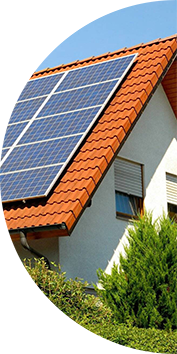
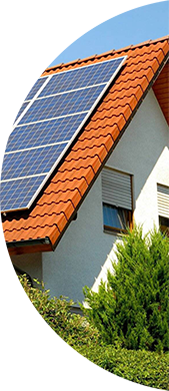
changed the picture on the mobile version in the station-types section

diff --git a/frontend/web/min/new-main.min.js b/frontend/web/min/new-main.min.js
@@ -1,4 +1,4 @@
-$(document).ready(function(){$('input[name="phone"]').mask("+38 (099) 999-99-99"),$(document).on("click",'[data-toggle="modal"]',function(){event.preventDefault(),showModal($(this).data("modal-id"))}),$(document).on("click",".subscribe-close, .overlay",function(){hideModal()}),$(document).on("click",".newsletter-opener",function(){event.preventDefault(),showModal($("#footer-newsletter"))}),$(document).on("click",".modal-close",function(){hideModal()}),$(document).on("click","#header .contact-opener",function(){event.preventDefault();var e=$(this).parents(".contact-block");e.hasClass("show-block")?e.removeClass("show-block"):(e.addClass("show-block"),$("body").removeClass("nav-active"))}),$(document).on("click","#nav-opener",function(){event.preventDefault();var e=$("body");e.hasClass("nav-active")?e.removeClass("nav-active"):(e.addClass("nav-active"),e.find(".contact-block").removeClass("show-block"))}),$(document).mouseup(function(e){var o=$("#header .contact-block"),t=$("#header");o.is(e.target)||0!==o.has(e.target).length||o.removeClass("show-block"),t.is(e.target)||0!==t.has(e.target).length||$("body").removeClass("nav-active")}),$("#to-top-link").click(function(){return event.preventDefault(),$("html, body").animate({scrollTop:0},500),!1}),$(document).on("click",".to_contact a",function(){event.preventDefault();var e=$(this).attr("href");$(window).width()<="1279"?($("html,body").scrollTop($(e).offset().top),$("body").removeClass("nav-active")):$("html,body").animate({scrollTop:$(e).offset().top-100},500)}),$(document).on("click",".anchor-list a",function(){event.preventDefault();var e=$(this).attr("href");$("html,body").animate({scrollTop:$(e).offset().top-100},500)}),$(document).on("click","#order-form",function(){event.preventDefault(),$(window).width()<="1279"?($("html,body").scrollTop($("#connect").offset().top),$("body").removeClass("nav-active")):$("html,body").animate({scrollTop:$("#connect").offset().top-60},500)}),$(document).on("click",".consult-btn , .order-btn",function(){event.preventDefault(),$(window).width()<="1279"?$("html,body").scrollTop($("#connect").offset().top):$("html,body").animate({scrollTop:$("#connect").offset().top-60},500)}),$(document).on("click",".adv-banner p",function(){event.preventDefault(),$(window).width()<="1279"?$("html,body").scrollTop($("#connect").offset().top):$("html,body").animate({scrollTop:$("#connect").offset().top-60},500),$(".adv-banner").hide()}),$(document).on("click",".adv-banner .close-banner",function(){event.preventDefault(),$(".adv-banner").hide(300)}),$(document).on("click",".open-close-opener",function(){$(".mobile-open-close").hasClass("show")?$(".mobile-open-close").removeClass("show"):$(".mobile-open-close").addClass("show")}),$(document).on("click",".seo-article-opener",function(){$(".seo-article").toggleClass("collapsed")}),$(document).on("click",".seo-article-opened",function(){$(".new-seo-article").toggleClass("new-collapsed")}),$(document).on("click",".staff-slider .slide",function(){var e=$(this).attr("data-slick-index");$(".staff-slider").slick("slickGoTo",e)}),initTabs($(".video-page .tab-navigation"),$(".video-page .tab-container")),initLoadMore($(".load-all"),3,3),initLoadMore($(".load-finished"),3,3),initLoadMore($(".load-approach"),3,3),initLoadMore($(".load-technology"),3,3),headerBg(),loadPros()});var lastWidth=$(window).width();$(window).resize(function(){$(window).width()!=lastWidth&&(initLoadMore($(".load-all"),3,3),initLoadMore($(".load-finished"),3,3),initLoadMore($(".load-approach"),3,3),initLoadMore($(".load-technology"),3,3),lastWidth=$(window).width(),loadPros())});var scrollPrev=0;function initTabs(o,t){$(o).find("a").on("click",function(){event.preventDefault();var e=$(this).attr("href");$(o).find("a").each(function(){$(this).removeClass("active")}),$(t).find(".tab-box").each(function(){$(this).removeClass("active"),$(this).hide()}),$(this).addClass("active"),$(e).show().addClass("active")})}function initLoadMore(e,o,t){var s=o-1,i=o,n=e.find(".button"),l=n.parents(".load-more-wrap").find(".video-row");$(window).width()<1024?(l.find(".video-col").length<=o?e.hide():e.show(),l.find(".video-col:gt("+s+")").hide(),n.on("click",function(){return i+=t,l.find(".video-col").slice(0,i).show(),0===l.find(".video-col:hidden").length&&(e.slideUp(400),i=o),!1})):(l.find(".video-col").show(),e.hide())}function headerBg(){height=$(window).scrollTop(),40<height?$(".header").addClass("scrolled"):$(".header").removeClass("scrolled")}function loadPros(){$(".pros-list").length&&window.matchMedia("(max-width: 767px)").matches?($(".pros-list li:gt(2)").hide(),$(".load-pros-button").show(300),$(document).on("click",".load-pros-button",function(){return $(".pros-list li").show(300),$(this).hide(),!1})):($(".load-pros-button").hide(),$(".pros-list li").show(300))}function showModal(e){$(e).fadeIn(300),$("body").addClass("no-overflow")}function hideModal(e){$(".modal").fadeOut(300),$("body").removeClass("no-overflow")}function validateEmail(e){e=$.trim(e);return/^(([^<>()\[\]\\.,;:\s@"]+(\.[^<>()\[\]\\.,;:\s@"]+)*)|(".+"))@((\[[0-9]{1,3}\.[0-9]{1,3}\.[0-9]{1,3}\.[0-9]{1,3}\])|(([a-zA-Z\-0-9]+\.)+[a-zA-Z]{2,}))$/.test(String(e).toLowerCase())}function initMap(){var e={lat:50.4495953,lng:30.4200102},o=e,t=$(window).width();(t<=1024||768<=t)&&(o={lat:50.449657,lng:30.410977}),$(window).width()<768&&(o={lat:50.449736,lng:30.419983});t={url:"../img/icon/marker.png",size:new google.maps.Size(48,48),origin:new google.maps.Point(0,0),anchor:new google.maps.Point(0,48)},o=new google.maps.Map(document.getElementById("map"),{center:o,zoom:15,disableDefaultUI:!0,scrollwheel:!1,zoomControl:!1});new google.maps.Marker({position:e,map:o,icon:t}).setMap(o)}$(window).scroll(function(){var e=$(window).scrollTop();200<e&&e<scrollPrev?$("#to_top_block").addClass("visible"):$("#to_top_block").removeClass("visible"),scrollPrev=e,headerBg()}),$(".comment-button").click(function(e){e.preventDefault();var o=$('.comment-content-question input[name="article_title"]'),t=$('.comment-content-question input[name="article_id"]'),s=$('.comment-content-question input[name="comment_date"]'),i=$('.comment-content-question input[name="response_date"]'),n=$('.comment-content-question input[name="published"]'),l=$('.comment-content-question input[name="name"]'),r=$('.comment-content-question textarea[name="comment"]'),e=$('.comment-content-question input[name="reCaptcha"]');""!=l.val()?l.css("border-color","#222"):l.css("border-color","red"),""!=r.val()?r.css("border-color","#222"):r.css("border-color","red"),""!=l.val()&&""!=r.val()&&$.ajax({type:"post",url:"/site/comment",data:{article_title:o.val(),article_id:t.val(),comment_date:s.val(),response_date:i.val(),published:n.val(),name:l.val(),comment:r.val(),captcha:e.val()},dataType:"json",complete:function(e){$(".comment-button").text("Надіслано").css({cursor:"default"}),($(window).innerHeight()<768?$(".comment-content-question .form-compelete").css("display","block;"):$(".comment-content-question .form-compelete").css("display","inline-flex;")).hide().fadeIn()}})}),$(".connect-btn").click(function(e){e.preventDefault();var o=$('.connect__content-question input[name="fullname"]'),t=$('.connect__content-question textarea[name="question"]'),s=$('.connect__content-question input[name="phone"]'),i=$('.connect__content-question input[name="email"]'),n=$('.connect__content-question input[name="utm_source"]'),l=$('.connect__content-question input[name="utm_medium"]'),r=$('.connect__content-question input[name="utm_campaign"]'),a=$('.connect__content-question input[name="utm_content"]'),c=$('.connect__content-question input[name="utm_term"]'),e=""!=o.val()&&""!=i.val()&&""!=s.val()&&validateEmail(i.val())?"autoEvent":"falseRequest";dataLayer.push({eventCategory:"form",eventAction:"sent",eventLabel:t.val(),event:e}),""!=o.val()?o.removeClass("input-error"):o.addClass("input-error"),""!=s.val()?s.removeClass("input-error"):s.addClass("input-error"),validateEmail(i.val())?i.removeClass("input-error"):i.addClass("input-error"),""!=o.val()&&""!=s.val()&&validateEmail(i.val())&&$.ajax({type:"post",url:"/site/request",data:{name:o.val(),type:t.val(),phone:s.val(),email:i.val(),utm_source:n.val(),utm_medium:l.val(),utm_campaign:r.val(),utm_content:a.val(),utm_term:c.val()},dataType:"json",beforeSend:function(e){$(".connect-btn").attr("disabled","disabled").removeClass("btn-primary").addClass("btn-primary-disable").css({cursor:"wait"})},complete:function(e){$(".connect-btn").parents(".message").slideUp(),$(".connect-btn").css({cursor:"default"}),$(".connect__content-question .form-compelete").fadeIn(300)}})}),$(".btn-subscribe").click(function(e){e.preventDefault();var o=$('.subscribe input[name="email"]');validateEmail(o.val())?o.removeClass("input-error"):o.addClass("input-error"),validateEmail(o.val())&&(dataLayer.push({eventCategory:"form",eventAction:"sent",eventLabel:"subscribe",event:"autoEvent"}),$.ajax({type:"post",url:"/site/subscribe",data:{email:o.val(),esputnik:"Pidtverdzhennya_pidpysku"},dataType:"json",beforeSend:function(e){o.attr("disabled","disabled"),$(".btn-subscribe").attr("disabled","disabled").css({cursor:"wait"})},complete:function(e){$(".btn-subscribe").css({cursor:"default"}),$(".newsletter-wrap .success-msg").slideDown(300)}}))}),$(document).ready(function(){var i;$(".hero-project-slider").length&&(i=$(".hero-slider-counter"),$(".hero-project-slider").on("init reInit afterChange",function(e,o,t,s){t=(t||0)+1;i.text(t+"/"+o.slideCount)}),$(".hero-project-slider").slick({slidesToScroll:1,rows:0,slidesToShow:1,arrows:!1,dots:!0,adaptiveHeight:!0,responsive:[{breakpoint:767,settings:{dots:!1}}]})),$(".video-review-slider").length&&$(".video-review-slider").slick({slidesToScroll:1,rows:0,slidesToShow:3,arrows:!1,dots:!0,infinite:!1,responsive:[{breakpoint:1023,settings:{slidesToShow:2}},{breakpoint:479,settings:{slidesToShow:1}}]}),$(".staff-slider").length&&$(".staff-slider").slick({slidesToScroll:1,rows:0,slidesToShow:5,arrows:!1,dots:!0,infinite:!0,centerMode:!0,centerPadding:"10px",autoPlay:!0,autoplaySpeed:4e3,responsive:[{breakpoint:1023,settings:{slidesToShow:3,autoPlay:!1}},{breakpoint:479,settings:{slidesToShow:1,variableWidth:!0}}]}),$(".price-slider").length&&$(".price-slider").slick({slidesToScroll:1,rows:0,slidesToShow:3,arrows:!1,dots:!1,infinite:!1,responsive:[{breakpoint:767,settings:{slidesToScroll:1,slidesToShow:1,dots:!0,dotsClass:"slick-dots"}}]}),$(".work-stages-slider").length&&$(".work-stages-slider").slick({slidesToScroll:1,rows:0,slidesToShow:3,arrows:!1,dots:!1,infinite:!1,responsive:[{breakpoint:1023,settings:{slidesToScroll:1,slidesToShow:2,dots:!0,dotsClass:"slick-dots"}},{breakpoint:767,settings:{slidesToScroll:1,slidesToShow:1,adaptiveHeight:!0,dots:!0,dotsClass:"slick-dots"}}]}),$(".equipment-nav").length&&$(".equipment-nav").slick({slidesToScroll:1,slidesToShow:3,rows:0,arrows:!1,dots:!1,infinite:!1,variableWidth:!0,asNavFor:".equipment-slider",focusOnSelect:!0,responsive:[{breakpoint:767,settings:{slidesToShow:1,centerMode:!0,centerPadding:"0"}}]}),$(".possibility-list-slider").length&&$(".possibility-list-slider").slick({slidesToScroll:1,rows:0,slidesToShow:4,arrows:!1,dots:!1,infinite:!1,responsive:[{breakpoint:1190,settings:{slidesToScroll:1,slidesToShow:3,adaptiveHeight:!0,dots:!0,dotsClass:"slick-dots"}},{breakpoint:1023,settings:{slidesToScroll:1,slidesToShow:2,dots:!0,dotsClass:"slick-dots"}},{breakpoint:760,settings:{slidesToScroll:1,slidesToShow:1,adaptiveHeight:!0,dots:!0,dotsClass:"slick-dots"}}]}),$(".pros-list-slider").length&&$(".pros-list-slider").slick({slidesToScroll:1,rows:0,slidesToShow:3,arrows:!1,dots:!1,infinite:!1,responsive:[{breakpoint:1191,settings:"unslick"},{breakpoint:1190,settings:{slidesToScroll:1,slidesToShow:3,dots:!0,dotsClass:"slick-dots"}},{breakpoint:1023,settings:{slidesToScroll:1,slidesToShow:2,dots:!0,dotsClass:"slick-dots"}},{breakpoint:760,settings:{slidesToScroll:1,slidesToShow:1,adaptiveHeight:!0,dots:!0,dotsClass:"slick-dots"}}]}),$(".equipment-slider").length&&$(".equipment-slider").slick({slidesToScroll:1,slidesToShow:1,rows:0,arrows:!1,dots:!1,infinite:!1,swipe:!1,touchMove:!1,fade:!0,adaptiveHeight:!0,asNavFor:".equipment-nav"}),$(".equipment-slick").length&&$(".equipment-slick").slick({slidesToScroll:1,slidesToShow:1,rows:0,nextArrow:'<div class="next-arrow"><img src="/img/icon/Arrow.svg" alt="next" /></div>',prevArrow:'<div class="prev-arrow"><img src="/img/icon/Arrow.svg" alt="prev" /></div>',dots:!1,responsive:[{breakpoint:767,settings:{arrows:!1,dots:!0,dotsClass:"slick-dots"}}]}),$(".pannel-slick").length&&$(".pannel-slick").slick({slidesToScroll:1,slidesToShow:1,rows:0,nextArrow:'<div class="next-arrow"><img src="/img/icon/Arrow.svg" alt="next" /></div>',prevArrow:'<div class="prev-arrow"><img src="/img/icon/Arrow.svg" alt="prev" /></div>',dots:!1,responsive:[{breakpoint:767,settings:{arrows:!1,dots:!0,dotsClass:"slick-dots"}}]}),$(".mount-slick").length&&$(".mount-slick").slick({slidesToScroll:1,slidesToShow:1,rows:0,nextArrow:'<div class="next-arrow"><img src="/img/icon/Arrow.svg" alt="next" /></div>',prevArrow:'<div class="prev-arrow"><img src="/img/icon/Arrow.svg" alt="prev" /></div>',dots:!1,responsive:[{breakpoint:767,settings:{arrows:!1}}]}),$(".battery-slick").length&&$(".battery-slick").slick({slidesToScroll:1,slidesToShow:1,rows:0,nextArrow:'<div class="next-arrow"><img src="/img/icon/Arrow.svg" alt="next" /></div>',prevArrow:'<div class="prev-arrow"><img src="/img/icon/Arrow.svg" alt="prev" /></div>',dots:!1,responsive:[{breakpoint:767,settings:{arrows:!1}}]}),$(".service-types-nav").length&&$(".service-types-nav").slick({slidesToScroll:1,slidesToShow:3,rows:0,arrows:!1,dots:!1,infinite:!1,variableWidth:!0,asNavFor:".service-types-slider",focusOnSelect:!0,responsive:[{breakpoint:767,settings:{slidesToShow:1,centerMode:!0,centerPadding:"0"}}]}),$(".service-types-slider").length&&$(".service-types-slider").slick({slidesToScroll:1,slidesToShow:1,rows:0,arrows:!1,dots:!1,swipe:!1,touchMove:!1,fade:!0,focusOnSelect:!0,asNavFor:".service-types-nav",responsive:[{breakpoint:767,settings:{arrows:!1,adaptiveHeight:!0,swipe:!0,touchMove:!0,dots:!0,dotsClass:"slick-dots"}}]}),$(".reason-slider").length&&$(".reason-slider").slick({slidesToScroll:1,rows:0,slidesToShow:1,arrows:!1,dots:!0,infinite:!1,mobileFirst:!0,responsive:[{breakpoint:767,settings:"unslick"}]}),$(".clients-slider").length&&$(".clients-slider").slick({slidesToScroll:1,rows:0,slidesToShow:1,dots:!1,nextArrow:'<div class="next-arrow"><img src="/img/icon/Arrow.svg" alt="next" /></div>',prevArrow:'<div class="prev-arrow"><img src="/img/icon/Arrow.svg" alt="prev" /></div>',responsive:[{breakpoint:767,settings:{arrows:!1,dots:!0,dotsClass:"slick-dots"}}]}),$(".example__content-list").length&&$(".example__content-list").slick({infinite:!1,slidesToShow:3,slidesToScroll:3,rows:0,arrows:!0,touchMove:!1,accesibility:!1,draggable:!1,swipe:!1,speed:1e3,nextArrow:'<div class="next-arrow"><img src="/img/icon/Arrow.svg" alt="" /></div>',prevArrow:'<div class="prev-arrow"><img src="/img/icon/Arrow.svg" alt="" /></div>',responsive:[{breakpoint:1536,settings:{slidesToShow:2,slidesToScroll:2}},{breakpoint:1366,settings:{slidesToShow:2,slidesToScroll:2}},{breakpoint:769,settings:{slidesToShow:1,slidesToScroll:1,touchMove:!0,accesibility:!0,draggable:!0,swipe:!0}}]}),$(".project-info__slider-nav").length&&$(".project-info__slider-nav").slick({infinite:!1,slidesToShow:5,slidesToScroll:1,focusOnSelect:!0,arrows:!1,vertical:!0,dots:!1,asNavFor:".project-info__slider",responsive:[{breakpoint:420,settings:{slidesToShow:3}}]}),$(".project-info__slider").length&&$(".project-info__slider").slick({infinite:!1,slidesToShow:1,slidesToScroll:1,arrows:!0,fade:!0,nextArrow:'<div class="next-arrow"><img src="/img/icon/Arrow.svg" alt="" /></div>',prevArrow:'<div class="prev-arrow"><img src="/img/icon/Arrow.svg" alt="" /></div>',asNavFor:".project-info__slider-nav"})}),$(document).ready(function(){$(".solar-station-slider").slick({prevArrow:'<button type="button" class="solar-station-slick-btn solar-station-slick-prev"><img src="/img/dohod-zelyonyi-tarif/solar-arrow-prev.svg" alt=""></button>',nextArrow:'<button type="button" class="solar-station-slick-btn solar-station-slick-next"><img src="/img/dohod-zelyonyi-tarif/solar-arrow-next.svg" alt=""></button>',fade:!0})});for(var acc=document.getElementsByClassName("accordion"),i=0;i<acc.length;i++)acc[i].addEventListener("click",function(){this.classList.toggle("active1");var e=this.nextElementSibling;e.style.maxHeight?e.style.maxHeight=null:e.style.maxHeight=e.scrollHeight+"px"});
+$(document).ready(function(){$('input[name="phone"]').mask("+38 (099) 999-99-99"),$(document).on("click",'[data-toggle="modal"]',function(){event.preventDefault(),showModal($(this).data("modal-id"))}),$(document).on("click",".subscribe-close, .overlay",function(){hideModal()}),$(document).on("click",".newsletter-opener",function(){event.preventDefault(),showModal($("#footer-newsletter"))}),$(document).on("click",".modal-close",function(){hideModal()}),$(document).on("click","#header .contact-opener",function(){event.preventDefault();var e=$(this).parents(".contact-block");e.hasClass("show-block")?e.removeClass("show-block"):(e.addClass("show-block"),$("body").removeClass("nav-active"))}),$(document).on("click","#nav-opener",function(){event.preventDefault();var e=$("body");e.hasClass("nav-active")?e.removeClass("nav-active"):(e.addClass("nav-active"),e.find(".contact-block").removeClass("show-block"))}),$(document).mouseup(function(e){var o=$("#header .contact-block"),t=$("#header");o.is(e.target)||0!==o.has(e.target).length||o.removeClass("show-block"),t.is(e.target)||0!==t.has(e.target).length||$("body").removeClass("nav-active")}),$("#to-top-link").click(function(){return event.preventDefault(),$("html, body").animate({scrollTop:0},500),!1}),$(document).on("click",".to_contact a",function(){event.preventDefault();var e=$(this).attr("href");$(window).width()<="1279"?($("html,body").scrollTop($(e).offset().top),$("body").removeClass("nav-active")):$("html,body").animate({scrollTop:$(e).offset().top-100},500)}),$(document).on("click",".anchor-list a",function(){event.preventDefault();var e=$(this).attr("href");$("html,body").animate({scrollTop:$(e).offset().top-100},500)}),$(document).on("click","#order-form",function(){event.preventDefault(),$(window).width()<="1279"?($("html,body").scrollTop($("#connect").offset().top),$("body").removeClass("nav-active")):$("html,body").animate({scrollTop:$("#connect").offset().top-60},500)}),$(document).on("click",".consult-btn , .order-btn",function(){event.preventDefault(),$(window).width()<="1279"?$("html,body").scrollTop($("#connect").offset().top):$("html,body").animate({scrollTop:$("#connect").offset().top-60},500)}),$(document).on("click",".adv-banner p",function(){event.preventDefault(),$(window).width()<="1279"?$("html,body").scrollTop($("#connect").offset().top):$("html,body").animate({scrollTop:$("#connect").offset().top-60},500),$(".adv-banner").hide()}),$(document).on("click",".adv-banner .close-banner",function(){event.preventDefault(),$(".adv-banner").hide(300)}),$(document).on("click",".open-close-opener",function(){$(".mobile-open-close").hasClass("show")?$(".mobile-open-close").removeClass("show"):$(".mobile-open-close").addClass("show")}),$(document).on("click",".seo-article-opener",function(){$(".seo-article").toggleClass("collapsed")}),$(document).on("click",".seo-article-opened",function(){$(".new-seo-article").toggleClass("new-collapsed")}),$(document).on("click",".staff-slider .slide",function(){var e=$(this).attr("data-slick-index");$(".staff-slider").slick("slickGoTo",e)}),initTabs($(".video-page .tab-navigation"),$(".video-page .tab-container")),initLoadMore($(".load-all"),3,3),initLoadMore($(".load-finished"),3,3),initLoadMore($(".load-approach"),3,3),initLoadMore($(".load-technology"),3,3),headerBg(),loadPros()});var lastWidth=$(window).width();$(window).resize(function(){$(window).width()!=lastWidth&&(initLoadMore($(".load-all"),3,3),initLoadMore($(".load-finished"),3,3),initLoadMore($(".load-approach"),3,3),initLoadMore($(".load-technology"),3,3),lastWidth=$(window).width(),loadPros())});var scrollPrev=0;function initTabs(o,t){$(o).find("a").on("click",function(){event.preventDefault();var e=$(this).attr("href");$(o).find("a").each(function(){$(this).removeClass("active")}),$(t).find(".tab-box").each(function(){$(this).removeClass("active"),$(this).hide()}),$(this).addClass("active"),$(e).show().addClass("active")})}function initLoadMore(e,o,t){var s=o-1,i=o,n=e.find(".button"),l=n.parents(".load-more-wrap").find(".video-row");$(window).width()<1024?(l.find(".video-col").length<=o?e.hide():e.show(),l.find(".video-col:gt("+s+")").hide(),n.on("click",function(){return i+=t,l.find(".video-col").slice(0,i).show(),0===l.find(".video-col:hidden").length&&(e.slideUp(400),i=o),!1})):(l.find(".video-col").show(),e.hide())}function headerBg(){height=$(window).scrollTop(),40<height?$(".header").addClass("scrolled"):$(".header").removeClass("scrolled")}function loadPros(){$(".pros-list").length&&window.matchMedia("(max-width: 767px)").matches?($(".pros-list li:gt(2)").hide(),$(".load-pros-button").show(300),$(document).on("click",".load-pros-button",function(){return $(".pros-list li").show(300),$(this).hide(),!1})):($(".load-pros-button").hide(),$(".pros-list li").show(300))}function showModal(e){$(e).fadeIn(300),$("body").addClass("no-overflow")}function hideModal(e){$(".modal").fadeOut(300),$("body").removeClass("no-overflow")}function validateEmail(e){e=$.trim(e);return/^(([^<>()\[\]\\.,;:\s@"]+(\.[^<>()\[\]\\.,;:\s@"]+)*)|(".+"))@((\[[0-9]{1,3}\.[0-9]{1,3}\.[0-9]{1,3}\.[0-9]{1,3}\])|(([a-zA-Z\-0-9]+\.)+[a-zA-Z]{2,}))$/.test(String(e).toLowerCase())}function initMap(){var e={lat:50.4495953,lng:30.4200102},o=e,t=$(window).width();(t<=1024||768<=t)&&(o={lat:50.449657,lng:30.410977}),$(window).width()<768&&(o={lat:50.449736,lng:30.419983});t={url:"../img/icon/marker.png",size:new google.maps.Size(48,48),origin:new google.maps.Point(0,0),anchor:new google.maps.Point(0,48)},o=new google.maps.Map(document.getElementById("map"),{center:o,zoom:15,disableDefaultUI:!0,scrollwheel:!1,zoomControl:!1});new google.maps.Marker({position:e,map:o,icon:t}).setMap(o)}$(window).scroll(function(){var e=$(window).scrollTop();200<e&&e<scrollPrev?$("#to_top_block").addClass("visible"):$("#to_top_block").removeClass("visible"),scrollPrev=e,headerBg()}),$(".comment-button").click(function(e){e.preventDefault();var o=$('.comment-content-question input[name="article_title"]'),t=$('.comment-content-question input[name="article_id"]'),s=$('.comment-content-question input[name="comment_date"]'),i=$('.comment-content-question input[name="response_date"]'),n=$('.comment-content-question input[name="published"]'),l=$('.comment-content-question input[name="name"]'),r=$('.comment-content-question textarea[name="comment"]'),e=$('.comment-content-question input[name="reCaptcha"]');""!=l.val()?l.css("border-color","#222"):l.css("border-color","red"),""!=r.val()?r.css("border-color","#222"):r.css("border-color","red"),""!=l.val()&&""!=r.val()&&$.ajax({type:"post",url:"/site/comment",data:{article_title:o.val(),article_id:t.val(),comment_date:s.val(),response_date:i.val(),published:n.val(),name:l.val(),comment:r.val(),captcha:e.val()},dataType:"json",complete:function(e){$(".comment-button").text("Надіслано").css({cursor:"default"}),($(window).innerHeight()<768?$(".comment-content-question .form-compelete").css("display","block;"):$(".comment-content-question .form-compelete").css("display","inline-flex;")).hide().fadeIn()}})}),$(".connect-btn").click(function(e){e.preventDefault();var o=$('.connect__content-question input[name="fullname"]'),t=$('.connect__content-question textarea[name="question"]'),s=$('.connect__content-question input[name="phone"]'),i=$('.connect__content-question input[name="email"]'),n=$('.connect__content-question input[name="utm_source"]'),l=$('.connect__content-question input[name="utm_medium"]'),r=$('.connect__content-question input[name="utm_campaign"]'),a=$('.connect__content-question input[name="utm_content"]'),c=$('.connect__content-question input[name="utm_term"]'),e=""!=o.val()&&""!=i.val()&&""!=s.val()&&validateEmail(i.val())?"autoEvent":"falseRequest";dataLayer.push({eventCategory:"form",eventAction:"sent",eventLabel:t.val(),event:e}),""!=o.val()?o.removeClass("input-error"):o.addClass("input-error"),""!=s.val()?s.removeClass("input-error"):s.addClass("input-error"),validateEmail(i.val())?i.removeClass("input-error"):i.addClass("input-error"),""!=o.val()&&""!=s.val()&&validateEmail(i.val())&&$.ajax({type:"post",url:"/site/request",data:{name:o.val(),type:t.val(),phone:s.val(),email:i.val(),utm_source:n.val(),utm_medium:l.val(),utm_campaign:r.val(),utm_content:a.val(),utm_term:c.val()},dataType:"json",beforeSend:function(e){$(".connect-btn").attr("disabled","disabled").removeClass("btn-primary").addClass("btn-primary-disable").css({cursor:"wait"})},complete:function(e){$(".connect-btn").parents(".message").slideUp(),$(".connect-btn").css({cursor:"default"}),$(".connect__content-question .form-compelete").fadeIn(300)}})}),$(".btn-subscribe").click(function(e){e.preventDefault();var o=$('.subscribe input[name="email"]');validateEmail(o.val())?o.removeClass("input-error"):o.addClass("input-error"),validateEmail(o.val())&&(dataLayer.push({eventCategory:"form",eventAction:"sent",eventLabel:"subscribe",event:"autoEvent"}),$.ajax({type:"post",url:"/site/subscribe",data:{email:o.val(),esputnik:"Pidtverdzhennya_pidpysku"},dataType:"json",beforeSend:function(e){o.attr("disabled","disabled"),$(".btn-subscribe").attr("disabled","disabled").css({cursor:"wait"})},complete:function(e){$(".btn-subscribe").css({cursor:"default"}),$(".newsletter-wrap .success-msg").slideDown(300)}}))}),$(document).ready(function(){var i;$(".hero-project-slider").length&&(i=$(".hero-slider-counter"),$(".hero-project-slider").on("init reInit afterChange",function(e,o,t,s){t=(t||0)+1;i.text(t+"/"+o.slideCount)}),$(".hero-project-slider").slick({slidesToScroll:1,rows:0,slidesToShow:1,arrows:!1,dots:!0,adaptiveHeight:!0,responsive:[{breakpoint:767,settings:{dots:!1}}]})),$(".video-review-slider").length&&$(".video-review-slider").slick({slidesToScroll:1,rows:0,slidesToShow:3,arrows:!1,dots:!0,infinite:!1,responsive:[{breakpoint:1023,settings:{slidesToShow:2}},{breakpoint:479,settings:{slidesToShow:1}}]}),$(".staff-slider").length&&$(".staff-slider").slick({slidesToScroll:1,rows:0,slidesToShow:5,arrows:!1,dots:!0,infinite:!0,centerMode:!0,centerPadding:"10px",autoPlay:!0,autoplaySpeed:4e3,responsive:[{breakpoint:1023,settings:{slidesToShow:3,autoPlay:!1}},{breakpoint:479,settings:{slidesToShow:1,variableWidth:!0}}]}),$(".price-slider").length&&$(".price-slider").slick({slidesToScroll:1,rows:0,slidesToShow:3,arrows:!1,dots:!1,infinite:!1,responsive:[{breakpoint:767,settings:{slidesToScroll:1,slidesToShow:1,dots:!0,dotsClass:"slick-dots"}}]}),$(".work-stages-slider").length&&$(".work-stages-slider").slick({slidesToScroll:1,rows:0,slidesToShow:3,arrows:!1,dots:!1,infinite:!1,responsive:[{breakpoint:1023,settings:{slidesToScroll:1,slidesToShow:2,dots:!0,dotsClass:"slick-dots"}},{breakpoint:767,settings:{slidesToScroll:1,slidesToShow:1,adaptiveHeight:!0,dots:!0,dotsClass:"slick-dots"}}]}),$(".equipment-nav").length&&$(".equipment-nav").slick({slidesToScroll:1,slidesToShow:3,rows:0,arrows:!1,dots:!1,infinite:!1,variableWidth:!0,asNavFor:".equipment-slider",focusOnSelect:!0,responsive:[{breakpoint:767,settings:{slidesToShow:1,centerMode:!0,centerPadding:"0"}}]}),$(".possibility-list-slider").length&&$(".possibility-list-slider").slick({slidesToScroll:1,rows:0,slidesToShow:4,arrows:!1,dots:!1,infinite:!1,responsive:[{breakpoint:1190,settings:{slidesToScroll:1,slidesToShow:3,dots:!0,dotsClass:"slick-dots"}},{breakpoint:1023,settings:{slidesToScroll:1,slidesToShow:2,dots:!0,dotsClass:"slick-dots"}},{breakpoint:760,settings:{slidesToScroll:1,slidesToShow:1,dots:!0,dotsClass:"slick-dots"}}]}),$(".pros-list-slider").length&&$(".pros-list-slider").slick({slidesToScroll:1,rows:0,slidesToShow:3,arrows:!1,dots:!1,infinite:!1,responsive:[{breakpoint:1191,settings:"unslick"},{breakpoint:1190,settings:{slidesToScroll:1,slidesToShow:3,dots:!0,dotsClass:"slick-dots"}},{breakpoint:1023,settings:{slidesToScroll:1,slidesToShow:2,dots:!0,dotsClass:"slick-dots"}},{breakpoint:760,settings:{slidesToScroll:1,slidesToShow:1,dots:!0,dotsClass:"slick-dots"}}]}),$(".equipment-slider").length&&$(".equipment-slider").slick({slidesToScroll:1,slidesToShow:1,rows:0,arrows:!1,dots:!1,infinite:!1,swipe:!1,touchMove:!1,fade:!0,adaptiveHeight:!0,asNavFor:".equipment-nav"}),$(".equipment-slick").length&&$(".equipment-slick").slick({slidesToScroll:1,slidesToShow:1,rows:0,nextArrow:'<div class="next-arrow"><img src="/img/icon/Arrow.svg" alt="next" /></div>',prevArrow:'<div class="prev-arrow"><img src="/img/icon/Arrow.svg" alt="prev" /></div>',dots:!1,responsive:[{breakpoint:767,settings:{arrows:!1,dots:!0,dotsClass:"slick-dots"}}]}),$(".pannel-slick").length&&$(".pannel-slick").slick({slidesToScroll:1,slidesToShow:1,rows:0,nextArrow:'<div class="next-arrow"><img src="/img/icon/Arrow.svg" alt="next" /></div>',prevArrow:'<div class="prev-arrow"><img src="/img/icon/Arrow.svg" alt="prev" /></div>',dots:!1,responsive:[{breakpoint:767,settings:{arrows:!1,dots:!0,dotsClass:"slick-dots"}}]}),$(".mount-slick").length&&$(".mount-slick").slick({slidesToScroll:1,slidesToShow:1,rows:0,nextArrow:'<div class="next-arrow"><img src="/img/icon/Arrow.svg" alt="next" /></div>',prevArrow:'<div class="prev-arrow"><img src="/img/icon/Arrow.svg" alt="prev" /></div>',dots:!1,responsive:[{breakpoint:767,settings:{arrows:!1}}]}),$(".battery-slick").length&&$(".battery-slick").slick({slidesToScroll:1,slidesToShow:1,rows:0,nextArrow:'<div class="next-arrow"><img src="/img/icon/Arrow.svg" alt="next" /></div>',prevArrow:'<div class="prev-arrow"><img src="/img/icon/Arrow.svg" alt="prev" /></div>',dots:!1,responsive:[{breakpoint:767,settings:{arrows:!1}}]}),$(".service-types-nav").length&&$(".service-types-nav").slick({slidesToScroll:1,slidesToShow:3,rows:0,arrows:!1,dots:!1,infinite:!1,variableWidth:!0,asNavFor:".service-types-slider",focusOnSelect:!0,responsive:[{breakpoint:767,settings:{slidesToShow:1,centerMode:!0,centerPadding:"0"}}]}),$(".service-types-slider").length&&$(".service-types-slider").slick({slidesToScroll:1,slidesToShow:1,rows:0,arrows:!1,dots:!1,swipe:!1,touchMove:!1,fade:!0,focusOnSelect:!0,asNavFor:".service-types-nav",responsive:[{breakpoint:767,settings:{arrows:!1,adaptiveHeight:!0,swipe:!0,touchMove:!0,dots:!0,dotsClass:"slick-dots"}}]}),$(".reason-slider").length&&$(".reason-slider").slick({slidesToScroll:1,rows:0,slidesToShow:1,arrows:!1,dots:!0,infinite:!1,mobileFirst:!0,responsive:[{breakpoint:767,settings:"unslick"}]}),$(".clients-slider").length&&$(".clients-slider").slick({slidesToScroll:1,rows:0,slidesToShow:1,dots:!1,nextArrow:'<div class="next-arrow"><img src="/img/icon/Arrow.svg" alt="next" /></div>',prevArrow:'<div class="prev-arrow"><img src="/img/icon/Arrow.svg" alt="prev" /></div>',responsive:[{breakpoint:767,settings:{arrows:!1,dots:!0,dotsClass:"slick-dots"}}]}),$(".example__content-list").length&&$(".example__content-list").slick({infinite:!1,slidesToShow:3,slidesToScroll:3,rows:0,arrows:!0,touchMove:!1,accesibility:!1,draggable:!1,swipe:!1,speed:1e3,nextArrow:'<div class="next-arrow"><img src="/img/icon/Arrow.svg" alt="" /></div>',prevArrow:'<div class="prev-arrow"><img src="/img/icon/Arrow.svg" alt="" /></div>',responsive:[{breakpoint:1536,settings:{slidesToShow:2,slidesToScroll:2}},{breakpoint:1366,settings:{slidesToShow:2,slidesToScroll:2}},{breakpoint:769,settings:{slidesToShow:1,slidesToScroll:1,touchMove:!0,accesibility:!0,draggable:!0,swipe:!0}}]}),$(".project-info__slider-nav").length&&$(".project-info__slider-nav").slick({infinite:!1,slidesToShow:5,slidesToScroll:1,focusOnSelect:!0,arrows:!1,vertical:!0,dots:!1,asNavFor:".project-info__slider",responsive:[{breakpoint:420,settings:{slidesToShow:3}}]}),$(".project-info__slider").length&&$(".project-info__slider").slick({infinite:!1,slidesToShow:1,slidesToScroll:1,arrows:!0,fade:!0,nextArrow:'<div class="next-arrow"><img src="/img/icon/Arrow.svg" alt="" /></div>',prevArrow:'<div class="prev-arrow"><img src="/img/icon/Arrow.svg" alt="" /></div>',asNavFor:".project-info__slider-nav"})}),$(document).ready(function(){$(".solar-station-slider").slick({prevArrow:'<button type="button" class="solar-station-slick-btn solar-station-slick-prev"><img src="/img/dohod-zelyonyi-tarif/solar-arrow-prev.svg" alt=""></button>',nextArrow:'<button type="button" class="solar-station-slick-btn solar-station-slick-next"><img src="/img/dohod-zelyonyi-tarif/solar-arrow-next.svg" alt=""></button>',fade:!0})});for(var acc=document.getElementsByClassName("accordion"),i=0;i<acc.length;i++)acc[i].addEventListener("click",function(){this.classList.toggle("active1");var e=this.nextElementSibling;e.style.maxHeight?e.style.maxHeight=null:e.style.maxHeight=e.scrollHeight+"px"});
 $('.connect-btn-1').click(function (t) {
     t.preventDefault()
     var e = $('.connect__content-question-1 input[name="fullname"]'),

diff --git a/frontend/web/min/all.min.css b/frontend/web/min/all.min.css
@@ -1223,7 +1223,7 @@ a:not([class]):hover{color:#ffd100}
 .subtitle__slider{font-family:"Bebas Neue Cyrillic",sans-serif;font-size:20px;line-height:20px;font-weight:400;text-transform:uppercase;margin-bottom:30px}
 .possibility-list-slider{list-style:none;margin:0 0 30px;padding:0}
 .possibility-item-slider{margin-left:12px;margin-right:12px}
-.possibility-item{list-style-type:none;max-width:331px;min-height:375px;background:#fff;box-shadow:0 2px 12px rgba(0,0,0,.2);border-radius:35px;text-align:center;margin-bottom:62px;margin-top:10px;padding:57px 36px 25px}
+.possibility-item{list-style-type:none;max-width:331px;min-height:382px;background:#fff;box-shadow:0 2px 12px rgba(0,0,0,.2);border-radius:35px;text-align:center;margin-bottom:62px;margin-top:10px;padding:57px 36px 20px}
 .possibility-img{display:flex;align-items:center;justify-content:center;width:90px;height:90px;padding:15px;border-radius:50%;background:#ffd100;margin:0 auto 42px}
 .possibility-text{font-weight:700;font-size:20px;line-height:24px}
 .possibility-item-slider{display:flex;justify-content:center;align-items:stretch;height:100%}
@@ -1239,21 +1239,20 @@ a:not([class]):hover{color:#ffd100}
 .possibility-text{font-size:18px;line-height:22px}
 }
 @media screen and (min-width:1024px){
-.title-block__possibility{max-width:640px}
+.title-block__possibility{max-width:615px}
 .title-block__possibility .line-title{line-height:60px;font-size:60px;max-width:470px}
 .subtitle__possibility{font-size:18px;line-height:22px}
 .subtitle__slider{font-size:45px;line-height:45px}
 }
 .station-types{position:relative;margin-bottom:50px}
 .station-types__text{font-family:Montserrat,sans-serif;font-weight:700;text-transform:uppercase;font-size:14px;line-height:17px;max-width:215px;padding-top:15px;padding-bottom:22px}
-.station-types__item{font-family:Montserrat,sans-serif;font-weight:700;font-size:14px;line-height:17px;background:rgba(183,211,247,1);padding:12px 12px;display:block;border-radius:5px;text-align:center;max-width:165px;width:100%;margin-bottom:11px;cursor:pointer;transition:.3s all}
+.station-types__item{font-family:Montserrat,sans-serif;font-weight:700;font-size:14px;line-height:17px;background:rgba(183,211,247,1);padding:12px 8px;display:block;border-radius:5px;text-align:center;max-width:159px;width:100%;margin-bottom:11px;cursor:pointer;transition:.3s all}
 .station-types__item:hover{color:#fff}
-.station-types__content::before{content:"";background:url(../img/homepage/mob-panels3.png);position:absolute;display:block;top:15px;right:-50px;width:170px;height:345px}
+.station-types__img-mob{position:absolute;top:0;bottom:0;right:0;left:0;display:block;background-image:url(../img/homepage/mob-panels4.png);-webkit-background-size:contain;background-size:auto;background-repeat:no-repeat;background-position:100% 0}
 .button__center .new-consult-btn{text-align:center;width:100%}
 .station-types__img{display:none}
-@media screen and (min-width:400px){
-.station-types__content::before{content:"";right:0;top:10px;height:354px}
-}
+@media screen and (min-width:375px){
+.station-types__img-mob{background-image:url(../img/homepage/mob-panels3.png)}
 @media screen and (min-width:450px){
 .station-types__text{max-width:290px;padding-bottom:40px}
 .button__center{text-align:center}
@@ -1266,9 +1265,9 @@ a:not([class]):hover{color:#ffd100}
 @media screen and (min-width:650px){
 .station-types__item{display:inline-block;margin-right:16px;font-size:17px;line-height:22px;padding:12px 10px;max-width:195px}
 .station-types__text{font-size:18px;line-height:22px;max-width:100%;padding-right:26px;padding-bottom:30px}
-.station-types__content::before{content:"";background:0 0}
 .station-types__wrap{display:flex;justify-content:space-between;align-items:center}
 .station-types__img{display:block;background-size:cover;background-repeat:no-repeat;background-position:center center;width:50%}
+.station-types__img-mob{display:none}
 .button__center .new-consult-btn{font-size:16px}
 .button__center{text-align:start}
 }
@@ -2912,4 +2911,5 @@ a.advantages-btn{font-size:20px;line-height:24px}
 .quiz-modal-container p{font-size:18px}
 .quiz-intro-content .quiz-btn{margin-bottom:30px}
 .quiz-radio:checked+label,.quiz-radio:not(:checked)+label{font-size:18px}
+}
 }

diff --git a/frontend/web/min/mystyle.css b/frontend/web/min/mystyle.css
@@ -1758,14 +1758,14 @@ a:not([class]):hover{color:#ffd100}
 .possibility-item {
     list-style-type: none;
     max-width: 331px;
-    min-height: 438px;
+    min-height: 382px;
     background: #FFFFFF;
     box-shadow: 0px 2px 12px rgba(0, 0, 0, 0.2);
     border-radius: 35px;
     text-align: center;
     margin-bottom: 62px;
     margin-top: 10px;
-    padding: 58px 55px 70px;
+    padding: 57px 36px 20px;
 }
 
 .possibility-img {
@@ -1841,7 +1841,7 @@ a:not([class]):hover{color:#ffd100}
 @media screen and (min-width:1024px){
 
     .title-block__possibility {
-        max-width: 640px;
+        max-width: 615px;
     }
     
     .title-block__possibility .line-title{
@@ -1862,8 +1862,6 @@ a:not([class]):hover{color:#ffd100}
 
 }
 
-/* блок с картинкой */
-
 .station-types {
     position: relative;
     margin-bottom: 50px;
@@ -1875,7 +1873,7 @@ a:not([class]):hover{color:#ffd100}
     text-transform: uppercase;
     font-size: 14px;
     line-height: 17px;
-    max-width: 220px;
+    max-width: 215px;
     padding-top: 15px;
     padding-bottom: 22px;
 }
@@ -1886,11 +1884,11 @@ a:not([class]):hover{color:#ffd100}
     font-size: 14px;
     line-height: 17px;
     background: rgba(183,211,247,1);
-    padding: 12px 12px;
+    padding: 12px 8px;
     display: block;
     border-radius: 5px;
     text-align: center;
-    max-width: 165px;
+    max-width: 159px;
     width: 100%;
     margin-bottom: 11px;
     cursor: pointer;
@@ -1901,16 +1899,20 @@ a:not([class]):hover{color:#ffd100}
     color: #fff;
 }
 
-.station-types__content::before {
-    content: "";
-    background: url(../img/homepage/mob-panels3.png);
+.station-types__img-mob {
     position: absolute;
+    top: 0px;
+    bottom: 0;
+    right: 0;
+    left: 0;
     display: block;
-    top: 15px;
-    right: -50px;
-    width: 170px;
-    height: 358px;
+    background-image: url(../img/homepage/mob-panels4.png);
+    -webkit-background-size: contain;
+    background-size: auto;
+    background-repeat: no-repeat;
+    background-position: 100% 0;
 }
+
 .button__center .new-consult-btn {
     text-align: center;
     width: 100%;
@@ -1920,16 +1922,10 @@ a:not([class]):hover{color:#ffd100}
     display: none;
 }
 
-@media screen and (min-width:400px){
-
-    .station-types__content::before {
-        content: "";
-        right: 0px;
-        top: 10px;
-        height: 354px;
-    }
+@media screen and (min-width:375px){
+    .station-types__img-mob {
+        background-image: url(../img/homepage/mob-panels3.png);
 }
-
 
 @media screen and (min-width:450px){
 
@@ -1984,11 +1980,6 @@ a:not([class]):hover{color:#ffd100}
         padding-bottom: 30px;
     }
 
-    .station-types__content::before {
-        content: "";
-        background: none;
-    }
-
     .station-types__wrap {
         display: flex;
         justify-content: space-between;
@@ -2004,6 +1995,10 @@ a:not([class]):hover{color:#ffd100}
         
     }
 
+    .station-types__img-mob {
+        display: none;
+    }
+
     .button__center .new-consult-btn {
         font-size: 16px;
     }
@@ -2012,8 +2007,6 @@ a:not([class]):hover{color:#ffd100}
         text-align: start;
     }
 }
-
-/* конец блок с картинкой */
 
 .new-pros-section {
     margin-top: 50px;

diff --git a/frontend/web/min/new-js.js b/frontend/web/min/new-js.js
@@ -277,7 +277,6 @@ $(document).ready(function(){
                     settings: {
                         slidesToScroll: 1,
                         slidesToShow: 3,
-                        adaptiveHeight: true,
                         dots: true,
                         dotsClass: 'slick-dots'
                     }
@@ -296,7 +295,6 @@ $(document).ready(function(){
                     settings: {
                         slidesToScroll: 1,
                         slidesToShow: 1,
-                        adaptiveHeight: true,
                         dots: true,
                         dotsClass: 'slick-dots'
                     }
@@ -341,7 +339,6 @@ $(document).ready(function(){
                     settings: {
                         slidesToScroll: 1,
                         slidesToShow: 1,
-                        adaptiveHeight: true,
                         dots: true,
                         dotsClass: 'slick-dots'
                     }

diff --git a/frontend/views/site/homepage.php b/frontend/views/site/homepage.php
@@ -97,8 +97,8 @@
                         <div class="button__center">
                             <a class="button btn-lg consult-btn station-types__button new-consult-btn" href="#connect"><?= BaseController::getMessage('402') ?></a>
                         </div>
-                        
                     </div>
+                    <div class="station-types__img-mob"></div>
                     <div class="station-types__img">
                         <img oncontextmenu="return false" data-src="/img/homepage/n-panels3.png" alt="">
                     </div>
